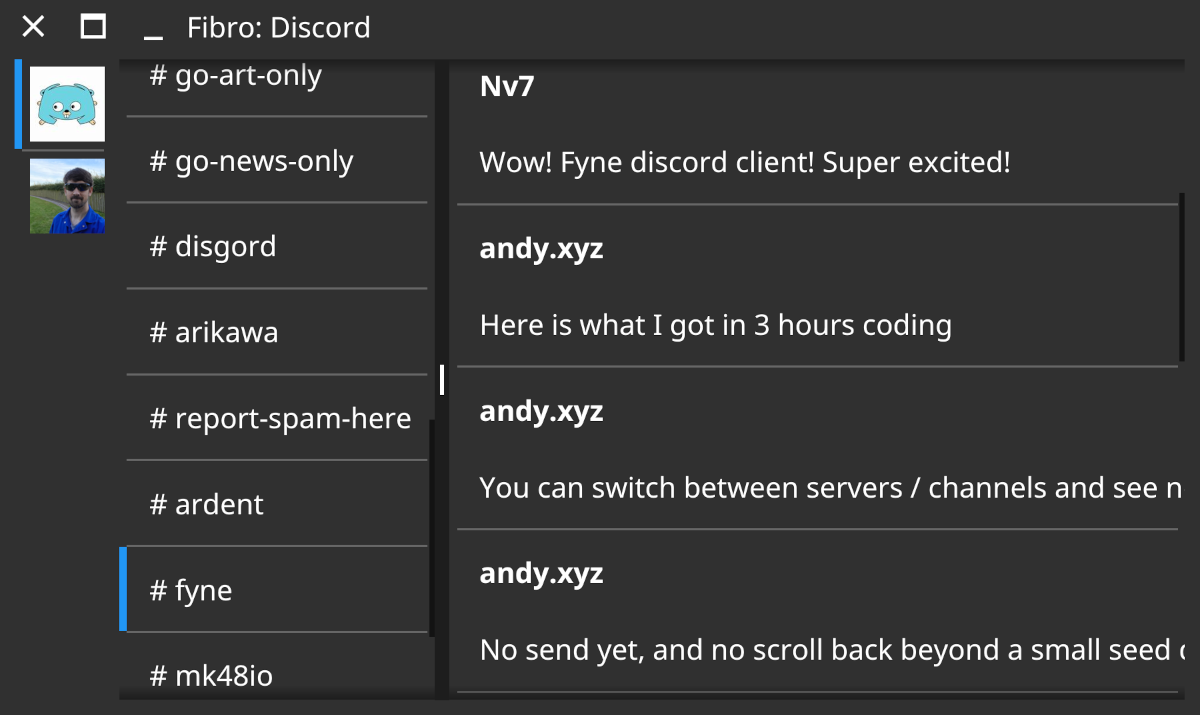
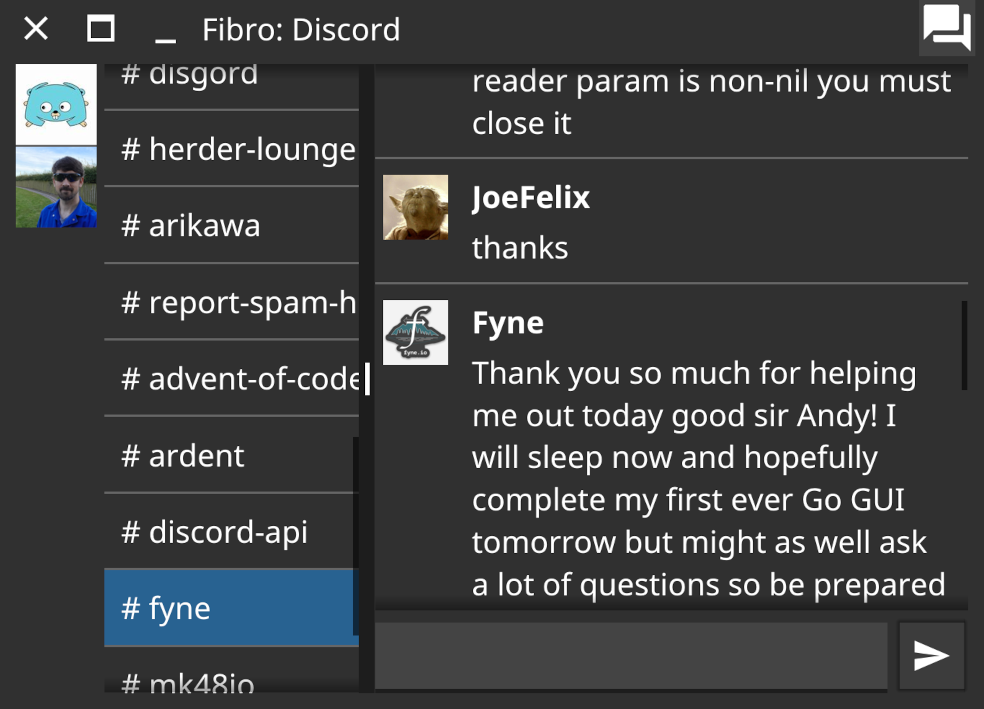
Trade speed for multiline content in message list

diff --git a/ui_message.go b/ui_message.go
@@ -9,6 +9,8 @@ import (
 	"fyne.io/fyne/v2/widget"
 )
 
+const iconSize = float32(32)
+
 var (
 	resCache = map[string]fyne.Resource{}
 	resCacheLock sync.RWMutex
@@ -53,22 +55,24 @@ func (m *messageCell) setMessage(new *message) {
 }
 
 func (m *messageCell) CreateRenderer() fyne.WidgetRenderer {
+	body := widget.NewLabel("")
+	body.Wrapping = fyne.TextWrapWord
 	return &messageRenderer{m: m,
 		top: widget.NewLabelWithStyle("", fyne.TextAlignLeading, fyne.TextStyle{Bold: true}),
-		main: widget.NewLabel(""), pic: widget.NewIcon(nil)}
+		main: body, pic: widget.NewIcon(nil), sep: widget.NewSeparator()}
 }
 
 type messageRenderer struct {
 	m *messageCell
 	top, main *widget.Label
 	pic       *widget.Icon
+	sep       *widget.Separator
 }
 
 func (m *messageRenderer) Destroy() {
 }
 
 func (m *messageRenderer) Layout(s fyne.Size) {
-	iconSize := float32(32)
 	remainWidth := s.Width - iconSize - theme.Padding() * 2
 	remainStart := iconSize+theme.Padding()*2
 	m.pic.Resize(fyne.NewSize(iconSize, iconSize))
@@ -77,15 +81,20 @@ func (m *messageRenderer) Layout(s fyne.Size) {
 	m.top.Resize(fyne.NewSize(remainWidth, m.top.MinSize().Height))
 	m.main.Move(fyne.NewPos(remainStart, m.top.MinSize().Height-theme.Padding()*4))
 	m.main.Resize(fyne.NewSize(remainWidth, m.main.MinSize().Height))
+	m.sep.Move(fyne.NewPos(0, s.Height - theme.SeparatorThicknessSize()))
+	m.sep.Resize(fyne.NewSize(s.Width, theme.SeparatorThicknessSize()))
 }
 
 func (m *messageRenderer) MinSize() fyne.Size {
-	s := m.top.MinSize()
-	return fyne.NewSize(s.Width, s.Height*2 - theme.Padding()*4)
+	s1 := m.top.MinSize()
+	s2 := m.main.MinSize()
+	w := fyne.Max(s1.Width, s2.Width)
+	return fyne.NewSize(w + iconSize + theme.Padding()*2,
+		s1.Height + s2.Height - theme.Padding()*4)
 }
 
 func (m *messageRenderer) Objects() []fyne.CanvasObject {
-	return []fyne.CanvasObject{m.top, m.main, m.pic}
+	return []fyne.CanvasObject{m.top, m.main, m.pic, m.sep}
 }
 
 func (m *messageRenderer) Refresh() {

diff --git a/ui.go b/ui.go
@@ -12,13 +12,25 @@ import (
 )
 
 type ui struct {
-	servers, channels, messages *widget.List
-	create                      *widget.Entry
+	servers, channels *widget.List
+	messages          *fyne.Container
+	messageScroll     *container.Scroll
+	create            *widget.Entry
 
 	data           *appData
 	currentServer  *server
 	currentChannel *channel
 	conn           *session.Session
+}
+
+func (u *ui) appendMessages(list []*message) {
+	items := u.messages.Objects
+	for _, m := range list {
+		items = append(items, newMessageCell(m))
+	}
+	u.messages.Objects = items
+	u.messages.Refresh()
+	u.messageScroll.ScrollToBottom()
 }
 
 func (u *ui) makeUI() fyne.CanvasObject {
@@ -58,23 +70,12 @@ func (u *ui) makeUI() fyne.CanvasObject {
 		})
 	u.channels.OnSelected = func(id widget.ListItemID) {
 		u.currentChannel = u.currentServer.channels[id]
-		u.messages.Refresh()
-		u.messages.ScrollToBottom()
+		u.messages.Objects = nil
+		u.appendMessages(u.currentChannel.messages)
 	}
 
-	u.messages = widget.NewList(
-		func() int {
-			if u.currentChannel == nil {
-				return 0
-			}
-			return len(u.currentChannel.messages)
-		},
-		func() fyne.CanvasObject {
-			return newMessageCell(nil)
-		},
-		func(id widget.ListItemID, o fyne.CanvasObject) {
-			o.(*messageCell).setMessage(u.currentChannel.messages[id])
-		})
+	u.messages = container.NewVBox()
+	u.messageScroll = container.NewScroll(u.messages)
 
 	u.create = widget.NewEntry()
 	u.create.OnSubmitted = u.send
@@ -82,7 +83,7 @@ func (u *ui) makeUI() fyne.CanvasObject {
 		container.NewBorder(nil, nil, nil, widget.NewButtonWithIcon("",
 			theme.MailSendIcon(), func() {
 				u.send(u.create.Text)
-			}), u.create), nil, nil, u.messages)
+			}), u.create), nil, nil, u.messageScroll)
 	content := container.NewHSplit(u.channels, messagePane)
 	content.Offset = 0.3
 	return container.NewBorder(nil, nil, u.servers, nil, content)

diff --git a/data.go b/data.go
@@ -55,8 +55,8 @@ func (u *ui) loadChannels() {
 				chn.messages = u.loadRecentMessages(c.ID)
 				if s == u.currentServer {
 					u.currentChannel = chn
-					u.messages.Refresh()
-					u.messages.ScrollToBottom()
+					u.messages.Objects = nil
+					u.appendMessages(u.currentChannel.messages)
 				}
 			}
 			s.channels = append(s.channels, chn)
@@ -125,11 +125,11 @@ func loadServers(s *session.Session, u *ui) {
 			return
 		}
 
-		ch.messages = append(ch.messages, &message{author: ev.Author.Username, content: ev.Content,
-			avatar: ev.Author.AvatarURL()})
+		msg := &message{author: ev.Author.Username, content: ev.Content,
+			avatar: ev.Author.AvatarURL()}
+		ch.messages = append(ch.messages, msg)
 		if ch == u.currentChannel {
-			u.messages.Refresh()
-			u.messages.ScrollToBottom()
+			u.appendMessages([]*message{msg})
 		}
 	})
 
